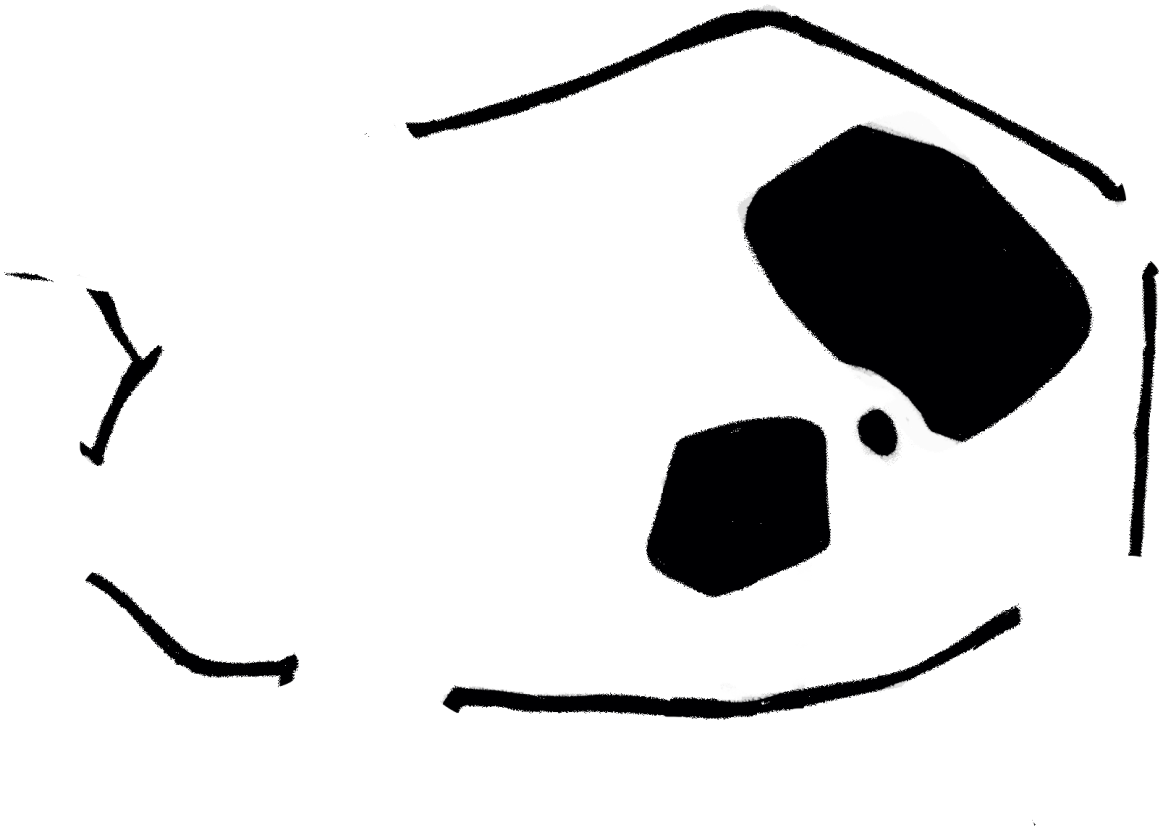
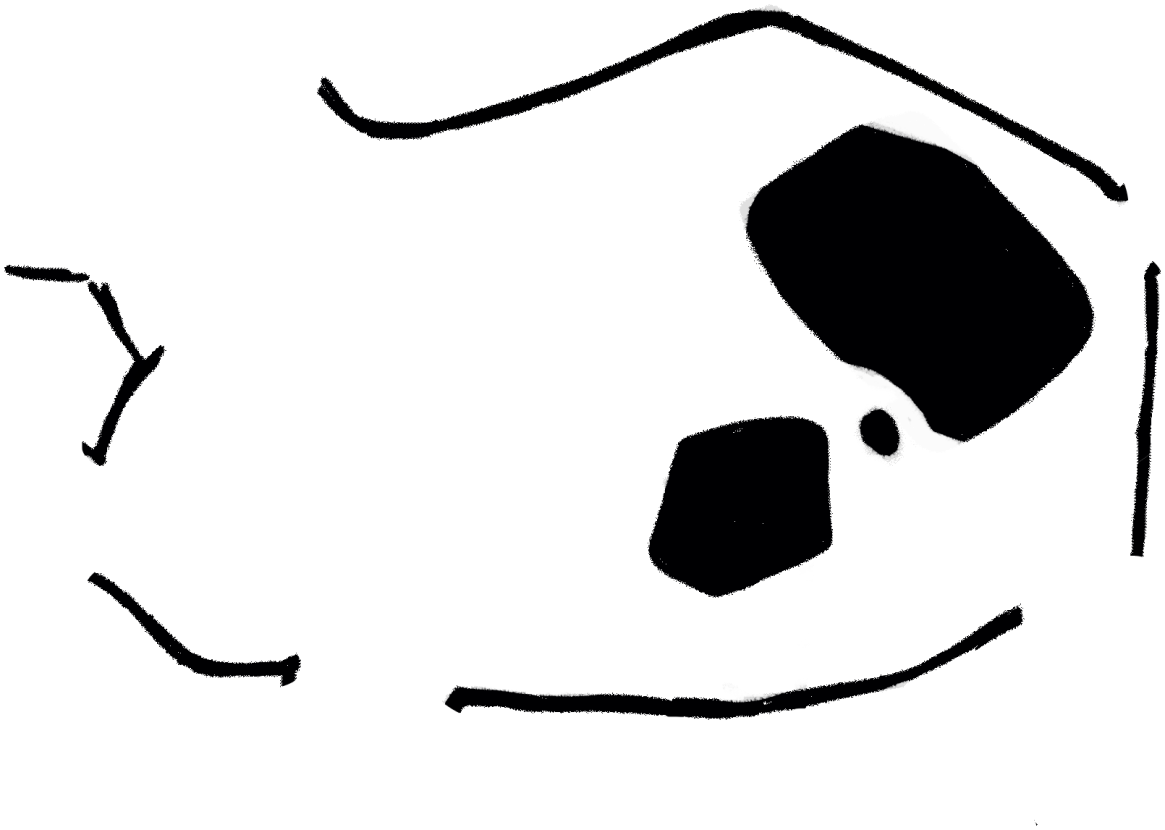
Vaquita: línea de cabeza y de cuerpo separadas, la cabeza gira como una sola pieza
- 'vaca cuerpo' entera con el cuerpo (sin cortar), debajo de todas las capas de la cabeza;
  'cabeza' (línea) arriba de todo, junto con color, mancha, ojos y aro
- importador: capas del cuerpo que caen entre capas de la cara bajan debajo de la cara;
  sin borde de papel (no agrega líneas)
- huella de armado (build): ajustes guardados de un armado viejo no imponen orden/padres/pivotes

diff --git a/src/rigparams.js b/src/rigparams.js
@@ -241,20 +241,39 @@ function blinkOf(raw) {
 }
 
 export function normalizeStore(data) {
-  const empty = { order: null, parts: {}, neck: null, blink: null };
+  const empty = { order: null, parts: {}, neck: null, blink: null, build: null };
   if (!data || typeof data !== 'object' || Array.isArray(data)) return empty;
   const neck = neckOf(data._neck || data.neck);
   const blink = blinkOf(data._blink || data.blink);
+  const rawBuild = data._build ?? data.build;
+  const build = typeof rawBuild === 'string' && rawBuild ? rawBuild : null;
   if (data.parts && typeof data.parts === 'object' && !Array.isArray(data.parts)) {
-    return { order: Array.isArray(data.order) ? data.order : null, parts: { ...data.parts }, neck, blink };
+    return { order: Array.isArray(data.order) ? data.order : null, parts: { ...data.parts }, neck, blink, build };
   }
   const parts = {};
   for (const [key, value] of Object.entries(data)) {
-    if (key === 'order' || key === '_neck' || key === 'neck' || key === 'parts' || key === '_blink' || key === 'blink') continue;
+    if (key === 'order' || key === '_neck' || key === 'neck' || key === 'parts' || key === '_blink' || key === 'blink' || key === '_build' || key === 'build') continue;
     if (!value || typeof value !== 'object' || Array.isArray(value)) continue;
     parts[key] = value;
   }
-  return { order: Array.isArray(data.order) ? data.order : null, parts, neck, blink };
+  return { order: Array.isArray(data.order) ? data.order : null, parts, neck, blink, build };
+}
+
+/**
+ * Ajustes guardados contra otro armado del mismo personaje (piezas recortadas de nuevo):
+ * su orden, padres y pivotes ya no corresponden, se descartan. El resto se conserva.
+ */
+export function fitStore(manifest, data) {
+  if (!data) return data;
+  const norm = normalizeStore(data);
+  const build = typeof manifest?.build === 'string' && manifest.build ? manifest.build : null;
+  if (!build || norm.build === build) return norm;
+  const parts = {};
+  for (const [id, row] of Object.entries(norm.parts)) {
+    const { pivot, parent, ...rest } = row || {};
+    parts[id] = rest;
+  }
+  return { ...norm, order: null, parts, build };
 }
 
 export function loadOverrides(id) {
@@ -272,6 +291,7 @@ export function loadOverrides(id) {
 export function packOverrides(data) {
   const norm = normalizeStore(data);
   const flat = { order: norm.order || [] };
+  if (norm.build) flat._build = norm.build;
   if (norm.neck) flat._neck = norm.neck;
   if (norm.blink) flat._blink = norm.blink;
   for (const [id, row] of Object.entries(norm.parts)) flat[id] = row;
@@ -318,7 +338,7 @@ export function collectOverrides(parts) {
 
 export function applyOverrides(manifest, data) {
   if (!manifest || !data) return manifest;
-  const norm = normalizeStore(data);
+  const norm = fitStore(manifest, data);
   manifest.parts = applyOrder(manifest.parts, norm.order);
   for (const part of manifest.parts) {
     const raw = norm.parts[part.id];

diff --git a/src/psdimport/build.js b/src/psdimport/build.js
@@ -126,6 +126,47 @@ function groupParent(layer) {
   return null;
 }
 
+/** ¿La pieza va con la cabeza? (directo o colgada de otra pieza de la cabeza) */
+function followsHead(part, byId) {
+  let cur = part;
+  for (let i = 0; cur && i < 16; i += 1) {
+    if (cur.role === 'eye' || cur.role === 'mouth' || cur.parent === 'head') return true;
+    if (cur.parent === 'body' || !cur.parent) return false;
+    cur = byId.get(cur.parent);
+  }
+  return false;
+}
+
+/**
+ * La cabeza gira como una sola pieza: una capa del cuerpo (línea del cuerpo, pata) que en el
+ * archivo cae entre capas de la cara baja a justo debajo de la cara. Así la línea del cuerpo
+ * queda separada de la de la cabeza y no cruza la cara al girar. Nada se corta ni se redibuja.
+ */
+function headAsOne(parts) {
+  const byId = new Map(parts.map((part) => [part.id, part]));
+  const head = parts.map((part) => followsHead(part, byId));
+  const first = parts.findIndex((part, i) => head[i] && part.role !== 'hair' && part.role !== 'ear');
+  let last = -1;
+  head.forEach((on, i) => { if (on) last = i; });
+  if (first < 0 || last <= first) return;
+  const lift = [];
+  const keep = [];
+  for (let i = first; i <= last; i += 1) (head[i] ? keep : lift).push(parts[i]);
+  if (!lift.length) return;
+  parts.splice(first, last - first + 1, ...lift, ...keep);
+}
+
+/** Huella corta de las piezas: ajustes guardados de otro armado no imponen orden/padres/pivotes. */
+function buildStamp(parts) {
+  const text = JSON.stringify(parts.map((p) => [p.id, p.parent, p.pivot, p.x, p.y, p.w, p.h, p.psdName]));
+  let h = 2166136261;
+  for (let i = 0; i < text.length; i += 1) {
+    h ^= text.charCodeAt(i);
+    h = Math.imul(h, 16777619);
+  }
+  return `imp-${(h >>> 0).toString(16)}`;
+}
+
 export function composeManifest(mapping) {
   const meta = mapping.meta;
   const factor = Math.min(1, meta.pxPerUnit / meta.scale);
@@ -272,6 +313,7 @@ export function composeManifest(mapping) {
     if (layer.role === 'neck') extras.neck = part;
   }
   if (!mouthSlot) putMouthSlot();
+  headAsOne(parts);
 
   // nada inventado: sin capas de boca, la boca queda como está dibujada en la cara
   const faceLayer = mapping.layers.find((layer) => layer.role === 'face');
@@ -348,6 +390,9 @@ export function composeManifest(mapping) {
     },
     bounds: { x0: r2(x0), y0: r2(y0), x1: r2(x1), y1: r2(y1) },
     drawOrder: parts.map((part) => part.id),
+    build: buildStamp(parts),
+    // dibujo por capas: sin el borde de papel al girar (no se agregan líneas que no están en el archivo)
+    paperEdge: false,
     squashBlink: squash,
     blink: { frames: ['open', 'closed'], note: squash ? 'sin capas de ojo cerrado: el ojo abierto se aplasta' : 'open = estilo de ojo; closed = capa del PSD' },
   };

diff --git a/src/puppet.js b/src/puppet.js
@@ -6,6 +6,7 @@ import { neckAnchorId, neckLiftAmount, paintNeck } from './neckdraw.js';
 import { resolveChain } from './rigchain.js';
 import {
   applyOverrides as applyRigData,
+  fitStore as fitRigStore,
   captureBase,
   currentRigCharacter,
   hasMotion,
@@ -159,6 +160,8 @@ function normalizeManifest(json) {
   // paperEdge: false = sin el borde de papel al girar (para dibujos por capas, sin píxeles inventados)
   m.paperEdge = json.paperEdge !== false;
   m.id = typeof json.id === 'string' ? json.id : null;
+  // huella del armado (personajes incluidos): ajustes guardados de otro armado no imponen orden/padres/pivotes
+  m.build = typeof json.build === 'string' && json.build ? json.build : null;
   // personajes por recortes: boca y ojos cambian de dibujo de golpe (sin fundido)
   m.swap = json.swap ? normalizeSwap(json.swap) : null;
   // sin capas de ojo cerrado: el ojo abierto se aplasta en vez de cambiar de dibujo
@@ -1117,8 +1120,9 @@ export function createPuppet(canvas) {
 
   function installOverrides(store) {
     restoreBase(state.manifest, state.base);
-    if (store) applyRigData(state.manifest, store);
-    state.rigStore = store || null;
+    const fitted = store ? fitRigStore(state.manifest, store) : null;
+    if (fitted) applyRigData(state.manifest, fitted);
+    state.rigStore = fitted || null;
     reindex();
     initSprings();
   }
@@ -2045,7 +2049,7 @@ export function createPuppet(canvas) {
     state.manifest = normalizeManifest(json);
     for (const part of state.manifest.parts) stampPart(part);
     state.base = captureBase(state.manifest);
-    state.rigStore = loadOverrides();
+    state.rigStore = fitRigStore(state.manifest, loadOverrides());
     if (state.rigStore) applyRigData(state.manifest, state.rigStore);
     reindex();
     sleeves.bind(state.manifest);
@@ -2119,8 +2123,8 @@ export function createPuppet(canvas) {
     state.prevBodyY = null;
     for (const part of m.parts) stampPart(part);
     state.base = captureBase(m);
-    state.rigStore = options.overrides || null;
-    if (options.overrides) applyRigData(m, options.overrides);
+    state.rigStore = options.overrides ? fitRigStore(m, options.overrides) : null;
+    if (state.rigStore) applyRigData(m, state.rigStore);
     reindex();
     sleeves.bind(m);
     bakeCaches();

diff --git a/tools/vaquita/build_vaquita.py b/tools/vaquita/build_vaquita.py
@@ -17,13 +17,17 @@ Capas del PSD (de abajo hacia arriba) y a qué pieza van, en el mismo orden:
                                        -> head_color  (color y mancha negra de la cabeza)
   'ojo izq' + 'cabeza - copia'         -> eye_l       (punto y aro blanco; dibujado a la derecha)
   'ojo der'                            -> eye_r       (dibujado a la izquierda: nombres de la autora)
-  'vaca cuerpo'                        -> body_line   (contorno y manchas del cuerpo)
+  'vaca cuerpo'                        -> body_line   (línea del cuerpo y manchas, entera, con el cuerpo)
   'p4 color', 'p4 l'                   -> leg_p4      (pata de atrás, encima del contorno del cuerpo)
-  'cabeza'                             -> head_line   (contorno de la cabeza, cuerno, nariz y boca)
+  'cabeza'                             -> head_line   (línea de la cabeza, cuerno, nariz y boca)
+Orden de dibujo: el del archivo, salvo que 'vaca cuerpo' y la pata p4 van debajo de
+todas las capas de la cabeza: la cabeza (color, mancha, ojos, aro y su línea) gira
+como una sola pieza y las dos líneas quedan separadas, cada una con lo suyo.
   'Capa 5' está vacía.
 No hay capas de ojos cerrados ni de boca abierta: los ojos parpadean aplastándose
 (squashBlink) y la boca queda como está dibujada.
 """
+import hashlib
 import json
 import os
 import warnings
@@ -96,18 +100,13 @@ legs = [(pid, over(full(c), full(l)), (c, l)) for pid, c, l in LEGS]
 leg_p4 = over(full('p4 color'), full('p4 l'))
 eye_r_img = full('ojo der')                                   # dibujado a la izquierda
 eye_l_img = over(full('ojo izq'), full('cabeza - copia'))     # dibujado a la derecha
+# 'vaca cuerpo' es la línea del cuerpo: entera, va con el cuerpo, sin cortarla.
+# Se dibuja debajo de las capas de la cabeza ('cabeza vaca', 'cabeza color', ojos,
+# 'cabeza'), así la cabeza gira como una sola pieza con su propia línea encima.
 body_line = full('vaca cuerpo')
-# El contorno del cuerpo pasa por encima de la mancha negra de la cabeza (negro sobre
-# negro). Esa parte se dibuja debajo de la cabeza: quieta se ve igual, y al girar la
-# cabeza no deja una línea gris suelta encima de la mancha.
-_hc = over(head_color, head_line)
-_dark = np.clip((0.25 - _hc[..., :3].max(2)) / 0.15, 0, 1)   # solo donde la cabeza es negra
-head_cover = np.clip((_hc[..., 3] - 0.85) / 0.15, 0, 1) * _dark
-body_line_under = body_line * head_cover[..., None]
-body_line = body_line * (1 - head_cover[..., None])
 
 # ---- rig: 600x600, personaje de 546 de alto con el borde de arriba en 25
-allm = over(body, tail, *[im for _, im, _ in legs], neck, head_color, eye_l_img, eye_r_img, body_line, leg_p4, head_line)[..., 3] > 0.02
+allm = over(body, tail, *[im for _, im, _ in legs], neck, body_line, leg_p4, head_color, eye_l_img, eye_r_img, head_line)[..., 3] > 0.02
 ys, xs = np.where(allm)
 BX0, BY0, BX1, BY1 = xs.min(), ys.min(), xs.max() + 1, ys.max() + 1
 RIG = 600
@@ -177,7 +176,9 @@ part('tail', tail, 'tail', 'body', TAIL_BASE, psdName=['vaca cola color', 'vaca 
 for pid, img, names in legs:
     part(pid, img, 'limb', 'body', hip(img), psdName=list(names), motion=dict(LEG_MOTION))
 part('neck', neck, 'static', 'body', FEET, psdName=['cabeza cuello', 'cabeza vaca'])
-part('body_line_under', body_line_under, 'static', 'body', FEET, psdName=['vaca cuerpo'])
+# línea del cuerpo y pata de atrás: con el cuerpo, debajo de toda la cabeza
+part('body_line', body_line, 'static', 'body', FEET, psdName=['vaca cuerpo'])
+part('leg_p4', leg_p4, 'limb', 'body', hip(leg_p4), psdName=['p4 color', 'p4 l'], motion=dict(LEG_MOTION))
 part('head_color', head_color, 'static', 'head', NECK, parallax=[0, 0], psdName=['cabeza vaca', 'cabeza color'])
 eye_l = save('eye_l_open.png', eye_l_img)
 eye_r = save('eye_r_open.png', eye_r_img)
@@ -185,11 +186,9 @@ parts.append({'id': 'eye_l', 'role': 'eye', 'parent': 'head', 'side': 'l', 'pivo
               'psdName': ['ojo izq', 'cabeza - copia']})
 parts.append({'id': 'eye_r', 'role': 'eye', 'parent': 'head', 'side': 'r', 'pivot': center(eye_r_img), 'parallax': [0, 0],
               'psdName': ['ojo der']})
-part('body_line', body_line, 'static', 'body', FEET, psdName=['vaca cuerpo'])
-part('leg_p4', leg_p4, 'limb', 'body', hip(leg_p4), psdName=['p4 color', 'p4 l'], motion=dict(LEG_MOTION))
 part('head_line', head_line, 'static', 'head', NECK, parallax=[0, 0], psdName=['cabeza'])
 
-comp = over(body, tail, *[im for _, im, _ in legs], neck, body_line_under, head_color, eye_l_img, eye_r_img, body_line, leg_p4, head_line)
+comp = over(body, tail, *[im for _, im, _ in legs], neck, body_line, leg_p4, head_color, eye_l_img, eye_r_img, head_line)
 ref = psd.composite()
 ref = np.asarray(ref).astype(np.float32) / 255
 ref[..., :3] *= ref[..., 3:]
@@ -237,6 +236,10 @@ manifest = {
     'bounds': dict(zip(['x0', 'y0'], rig(BX0, BY0))) | dict(zip(['x1', 'y1'], rig(BX1, BY1))),
     'drawOrder': [p['id'] for p in parts],
 }
+# huella del armado: si cambian las piezas, los ajustes guardados de un armado viejo
+# no imponen su orden, padres ni pivotes
+manifest['build'] = hashlib.sha1(json.dumps(
+    [[p['id'], p['parent'], p['pivot'], p.get('x'), p.get('y'), p.get('w'), p.get('h')] for p in parts]).encode()).hexdigest()[:12]
 with open(os.path.join(OUT, 'rig.json'), 'w') as f:
     json.dump(manifest, f, indent=1, ensure_ascii=False)
 if DBG and os.path.isdir(DBG):
